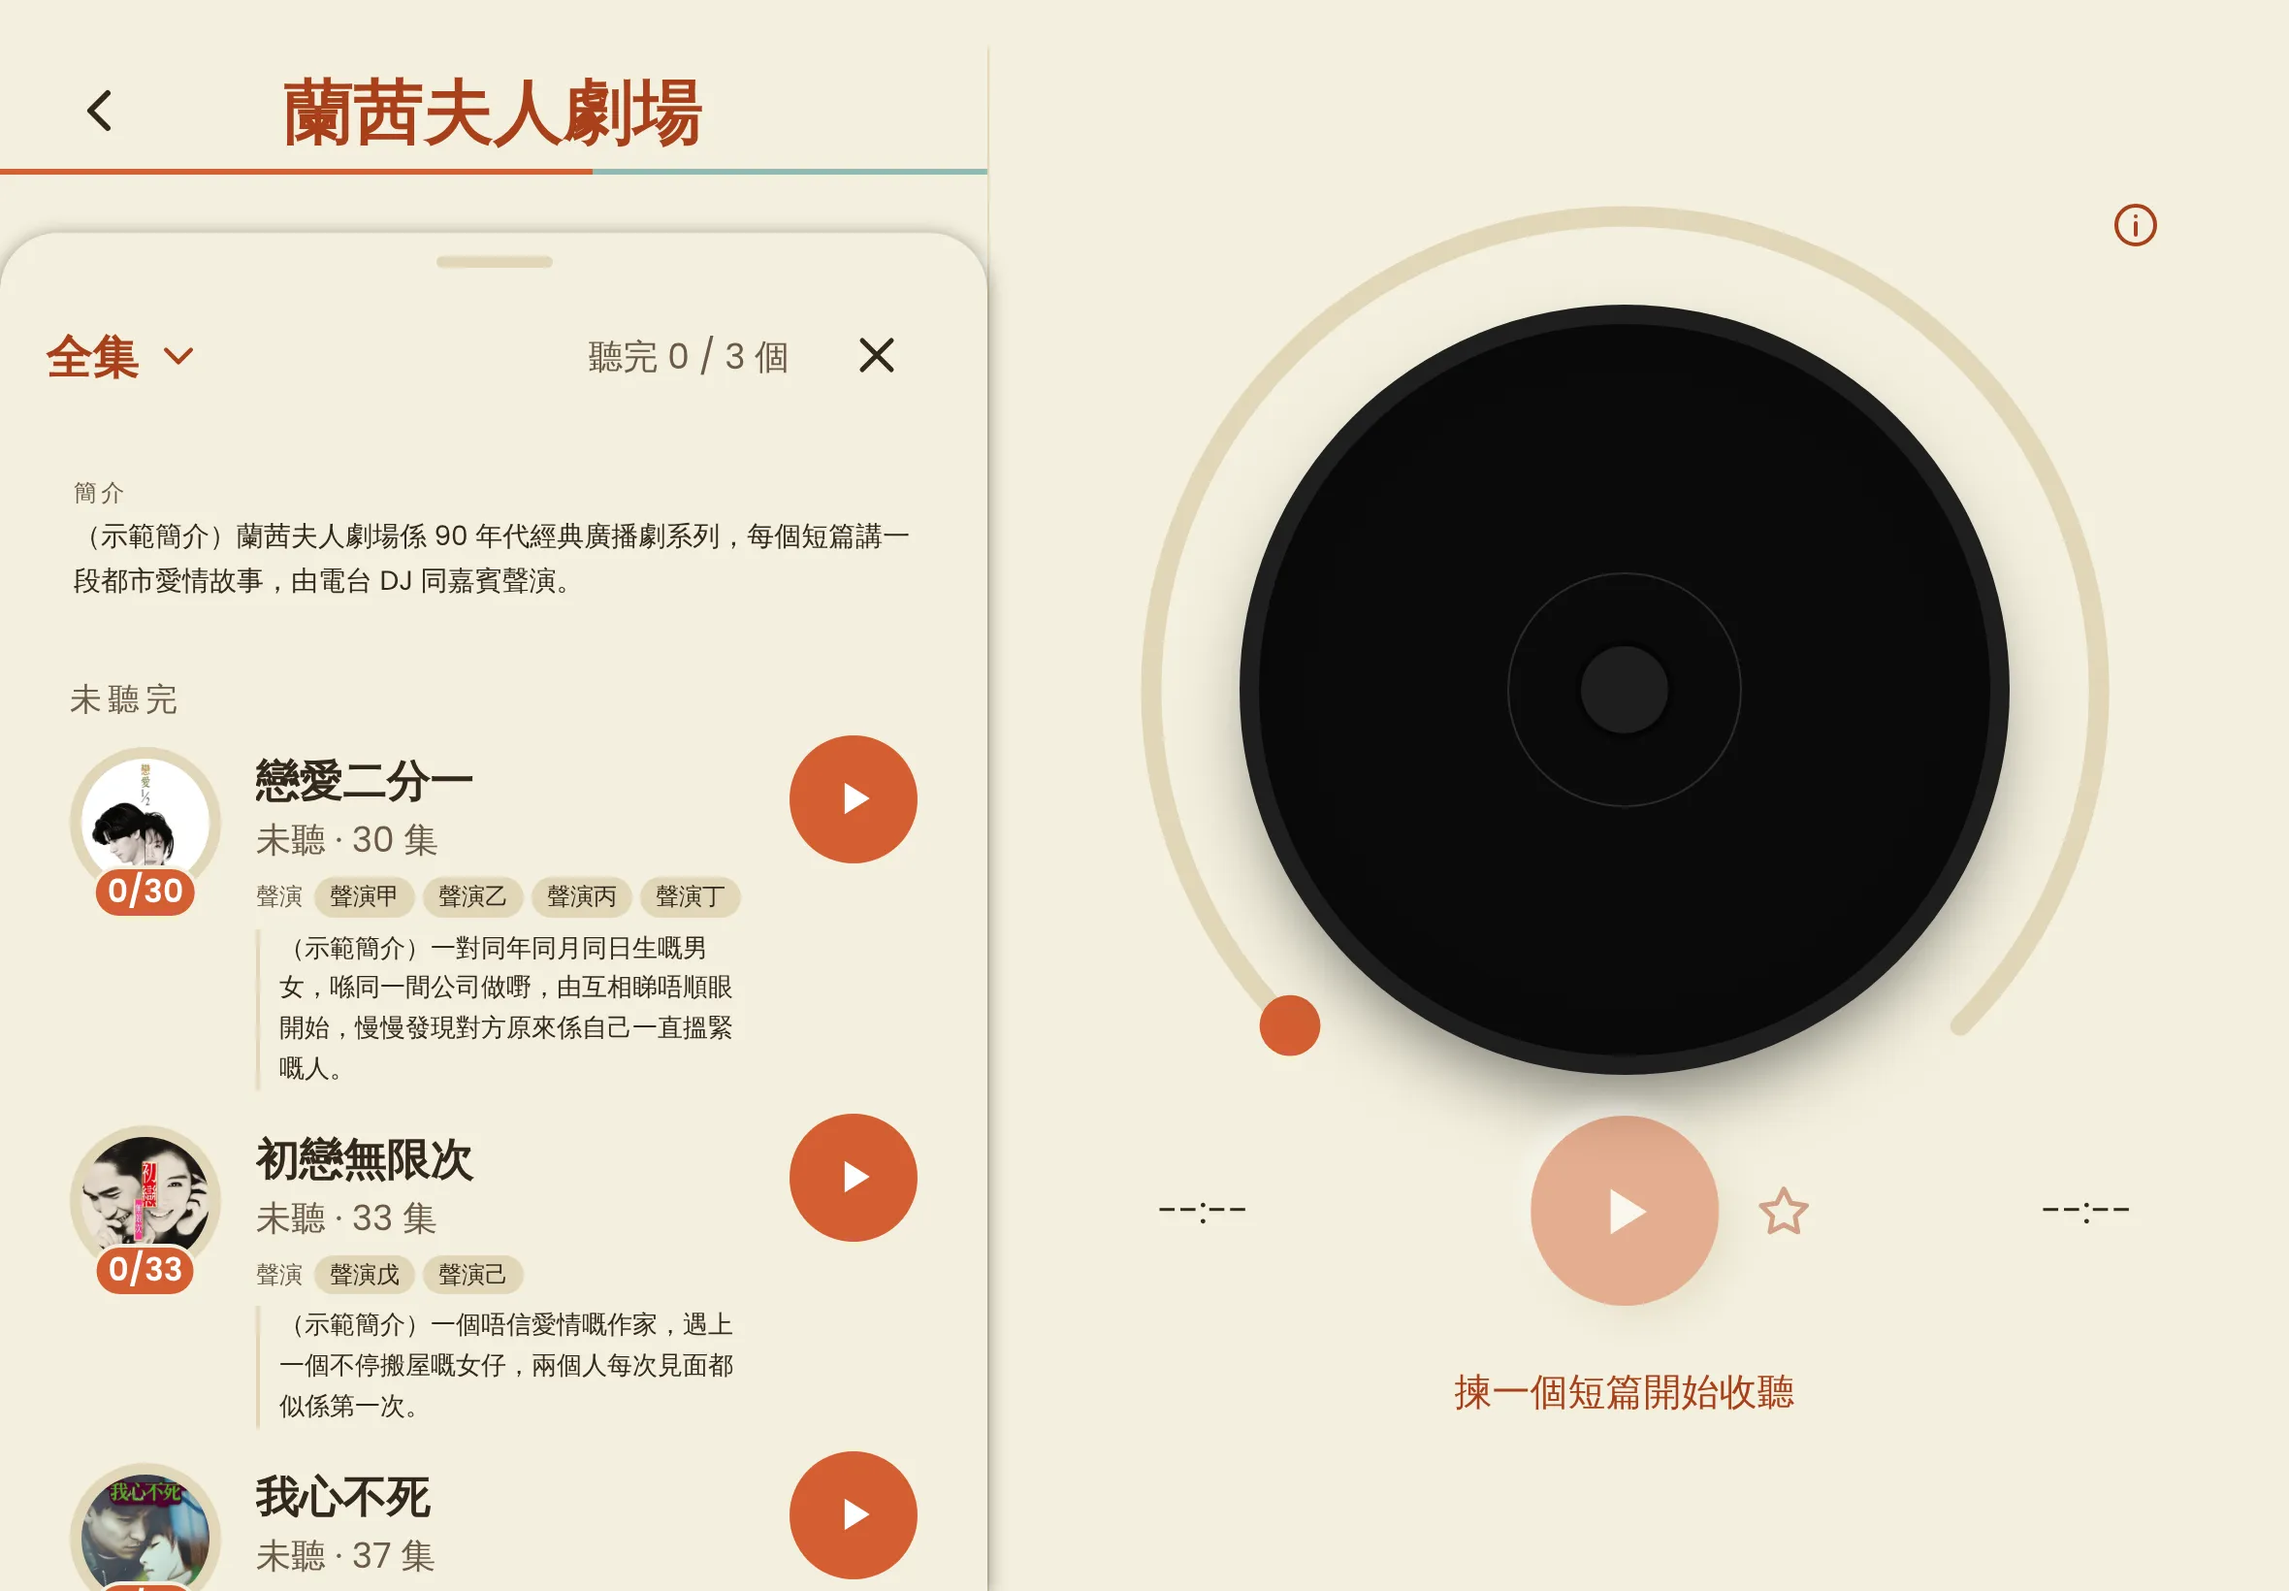
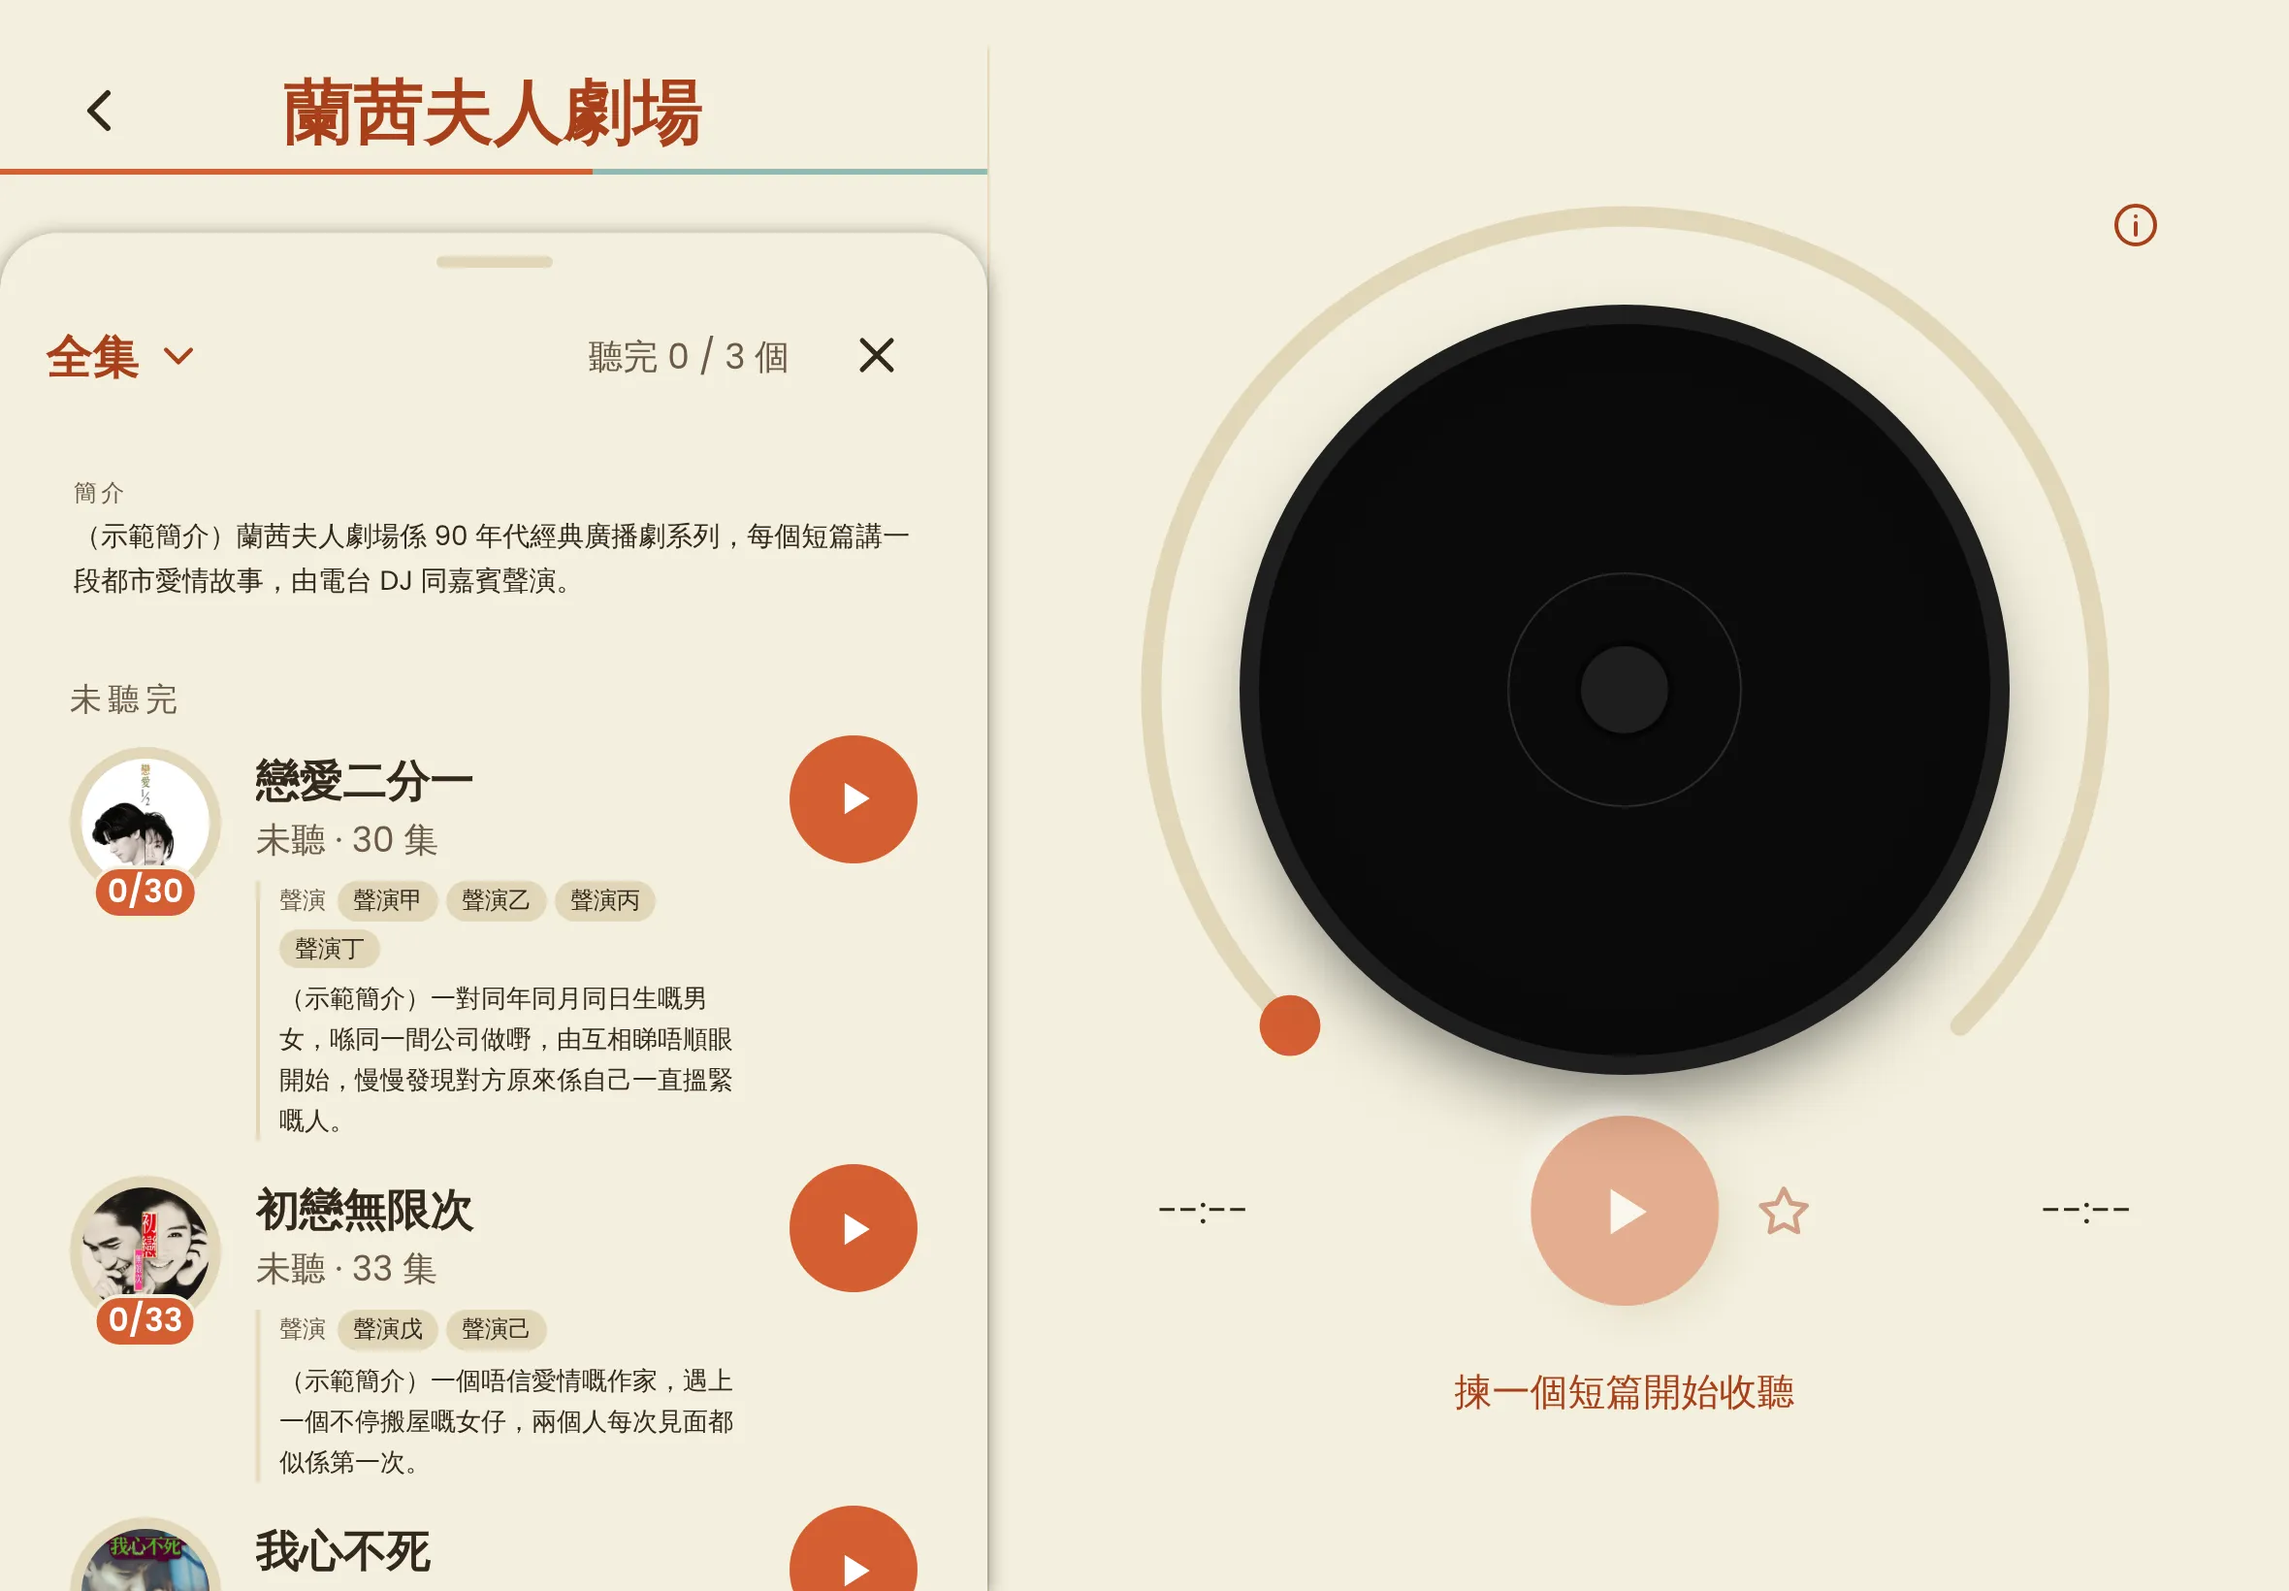
docs(mockup): item info demo with multiple arcs, cast inside rule
Claude-Session: https://claude.ai/code/session_01NegVT2PFHDVfPy18JzRXsY

Changed region(s): [[0.0309, 0.5287, 0.3403, 1.0], [0.3403, 0.9018, 0.4021, 1.0], [0.3403, 0.6841, 0.4021, 0.8085]]

diff --git a/_mockups_/catalog-item-info/index.html b/_mockups_/catalog-item-info/index.html
@@ -234,14 +234,15 @@
         display: grid;
         grid-template-rows: 0fr;
     }
-    .demo-body.open {
+    .demo.open .demo-body {
         grid-template-rows: 1fr;
     }
     .demo-inner {
         overflow: hidden;
+        min-height: 0;
     }
     .demo-sum {
-        margin: 0;
+        margin: 0 0 4px;
         padding: 10px 12px;
         border-radius: 12px;
         background: #faf7ec;
@@ -249,11 +250,85 @@
     }
     .demo-row {
         display: grid;
+        grid-template-columns: 52px 1fr 40px;
+        gap: 12px;
+        align-items: center;
+    }
+    .demo.open .demo-row {
+        align-items: start;
+    }
+    .demo-cover {
+        position: relative;
+        width: 52px;
+        height: 52px;
+    }
+    .demo-cover img {
+        width: 52px;
+        height: 52px;
+        border-radius: 50%;
+        border: 3px solid #e0d6b8;
+        object-fit: cover;
+    }
+    .demo-cover i {
+        position: absolute;
+        left: 50%;
+        bottom: -6px;
+        transform: translateX(-50%);
+        font:
+            600 10px/1 system-ui,
+            sans-serif;
+        font-style: normal;
+        background: #d45f32;
+        color: #fff;
+        padding: 2px 5px;
+        border-radius: 999px;
+    }
+    .demo-text {
+        display: grid;
+        min-width: 0;
         font-size: 15px;
     }
-    .demo-row span {
-        font-size: 13px;
+    .demo-meta {
+        font-size: 12px;
         color: #6b5a47;
+    }
+    .demo-info {
+        display: grid;
+        gap: 4px;
+        margin-top: 6px;
+        padding-left: 8px;
+        border-left: 2px solid #e0d6b8;
+    }
+    .demo-chips {
+        display: flex;
+        flex-wrap: wrap;
+        align-items: center;
+        gap: 3px;
+    }
+    .demo-role {
+        font-size: 11px;
+        color: #6b5a47;
+        margin-right: 2px;
+    }
+    .demo-chip {
+        font-size: 11px;
+        padding: 0 7px;
+        border-radius: 999px;
+        background: #e0d6b8;
+    }
+    .demo-arcsum {
+        font-size: 12px;
+        line-height: 1.55;
+    }
+    .demo-play {
+        width: 40px;
+        height: 40px;
+        border-radius: 50%;
+        background: #d45f32;
+        color: #fff;
+        display: grid;
+        place-items: center;
+        font-size: 13px;
     }
     @media (prefers-reduced-motion: no-preference) {
         .demo-tog {
@@ -304,7 +379,7 @@
             + 每個短篇下面「聲演」chip 同簡介；唱片圈 ⓘ = 開全集 sheet
             兼展開資料。碟面同播放掣都置頂； 簡介用正文色加左邊細線，同灰色進度字分開。
         </p>
-        <div class="demo">
+        <div class="demo" id="demo">
             <div class="demo-head">
                 <span class="demo-title">全集</span>
                 <button
@@ -330,24 +405,89 @@
                 </button>
                 <span class="demo-note">撳箭咀試動畫（減少動態就直接切換）</span>
             </div>
-            <div class="demo-body" id="demo-body">
+            <div class="demo-body">
                 <div class="demo-inner">
                     <p class="demo-sum">
-                        （示範簡介）蘭茜夫人劇場係 90
+                        <span class="demo-role">簡介</span><br />（示範簡介）蘭茜夫人劇場係 90
                         年代經典廣播劇系列，每個短篇講一段都市愛情故事。
                     </p>
                 </div>
             </div>
-            <div class="demo-row"><b>戀愛二分一</b><span>聽到第 13 集 10:00</span></div>
+            <div class="demo-row">
+                <span class="demo-cover"><img src="disc-half.webp" alt="" /><i>12/30</i></span>
+                <span class="demo-text">
+                    <b>戀愛二分一</b><span class="demo-meta">聽到第 13 集 10:00</span>
+                    <span class="demo-body"
+                        ><span class="demo-inner"
+                            ><span class="demo-info">
+                                <span class="demo-chips"
+                                    ><span class="demo-role">聲演</span
+                                    ><span class="demo-chip">聲演甲</span
+                                    ><span class="demo-chip">聲演乙</span
+                                    ><span class="demo-chip">聲演丙</span
+                                    ><span class="demo-chip">聲演丁</span></span
+                                >
+                                <span class="demo-arcsum"
+                                    >（示範簡介）一對同年同月同日生嘅男女，喺同一間公司做嘢，由互相睇唔順眼開始，慢慢發現對方原來係自己一直搵緊嘅人。</span
+                                >
+                            </span></span
+                        ></span
+                    >
+                </span>
+                <span class="demo-play" aria-hidden="true">▶</span>
+            </div>
+            <div class="demo-row">
+                <span class="demo-cover"><img src="disc-heart.webp" alt="" /><i>0/37</i></span>
+                <span class="demo-text">
+                    <b>我心不死</b><span class="demo-meta">未聽 · 37 集</span>
+                    <span class="demo-body"
+                        ><span class="demo-inner"
+                            ><span class="demo-info">
+                                <span class="demo-chips"
+                                    ><span class="demo-role">聲演</span
+                                    ><span class="demo-chip">聲演庚</span
+                                    ><span class="demo-chip">聲演辛</span
+                                    ><span class="demo-chip">聲演壬</span></span
+                                >
+                                <span class="demo-arcsum"
+                                    >（示範簡介）車禍之後失去記憶嘅男人，靠一本舊日記慢慢搵返以前愛過嘅人。</span
+                                >
+                            </span></span
+                        ></span
+                    >
+                </span>
+                <span class="demo-play" aria-hidden="true">▶</span>
+            </div>
+            <div class="demo-row">
+                <span class="demo-cover"><img src="disc-first-love.webp" alt="" /><i>✓</i></span>
+                <span class="demo-text">
+                    <b>初戀無限次</b><span class="demo-meta">聽完 · 33 集</span>
+                    <span class="demo-body"
+                        ><span class="demo-inner"
+                            ><span class="demo-info">
+                                <span class="demo-chips"
+                                    ><span class="demo-role">聲演</span
+                                    ><span class="demo-chip">聲演戊</span
+                                    ><span class="demo-chip">聲演己</span></span
+                                >
+                                <span class="demo-arcsum"
+                                    >（示範簡介）一個唔信愛情嘅作家，遇上一個不停搬屋嘅女仔，兩個人每次見面都似係第一次。</span
+                                >
+                            </span></span
+                        ></span
+                    >
+                </span>
+                <span class="demo-play" aria-hidden="true">▶</span>
+            </div>
         </div>
         <script>
             (() => {
+                const demo = document.getElementById('demo');
                 const tog = document.getElementById('demo-tog');
-                const body = document.getElementById('demo-body');
                 tog.addEventListener('click', () => {
                     const open = tog.getAttribute('aria-expanded') !== 'true';
                     tog.setAttribute('aria-expanded', String(open));
-                    body.classList.toggle('open', open);
+                    demo.classList.toggle('open', open);
                 });
             })();
         </script>
